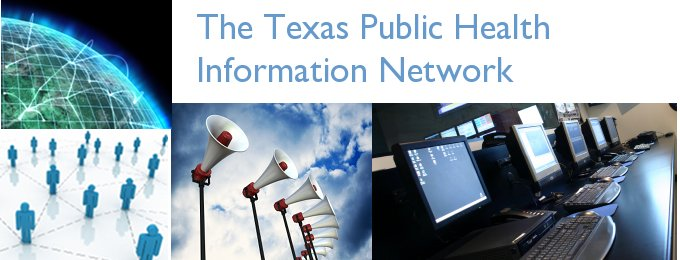
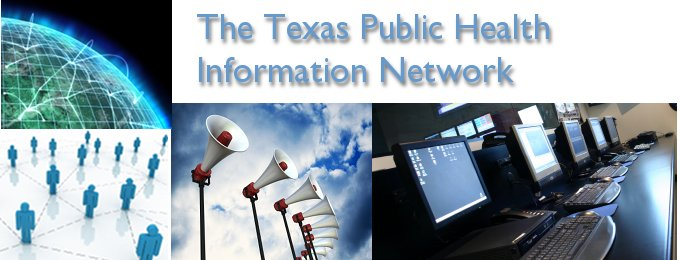
slight modification to home graphic

Changed region(s): [[0.2779, 0.0615, 0.8338, 0.1846], [0.2779, 0.2154, 0.7721, 0.3385]]

diff --git a/public/stylesheets/master.css b/public/stylesheets/master.css
@@ -87,7 +87,7 @@ table td 																			{padding:5px 20px 5px 0;}
 #news_articles .more a                        {float: right;}
 #news_articles .less a                        {float: right;}
 
-#feature 																			{width:680px; height:260px; margin:20px -15px 20px; text-indent:-9999px; overflow:hidden; background:url(images/home_graphic.jpg) no-repeat;}
+#feature 																			{width:680px; height:260px; margin:20px -15px 20px; text-indent:-9999px; overflow:hidden; background:url(images/home_graphic.png) no-repeat;}
 #content p																		{margin:0 0 15px; line-height:1.6;}
 #content div.details													{width:410px; float:left;}
 #content div.aside														{width:210px; float:right;}
